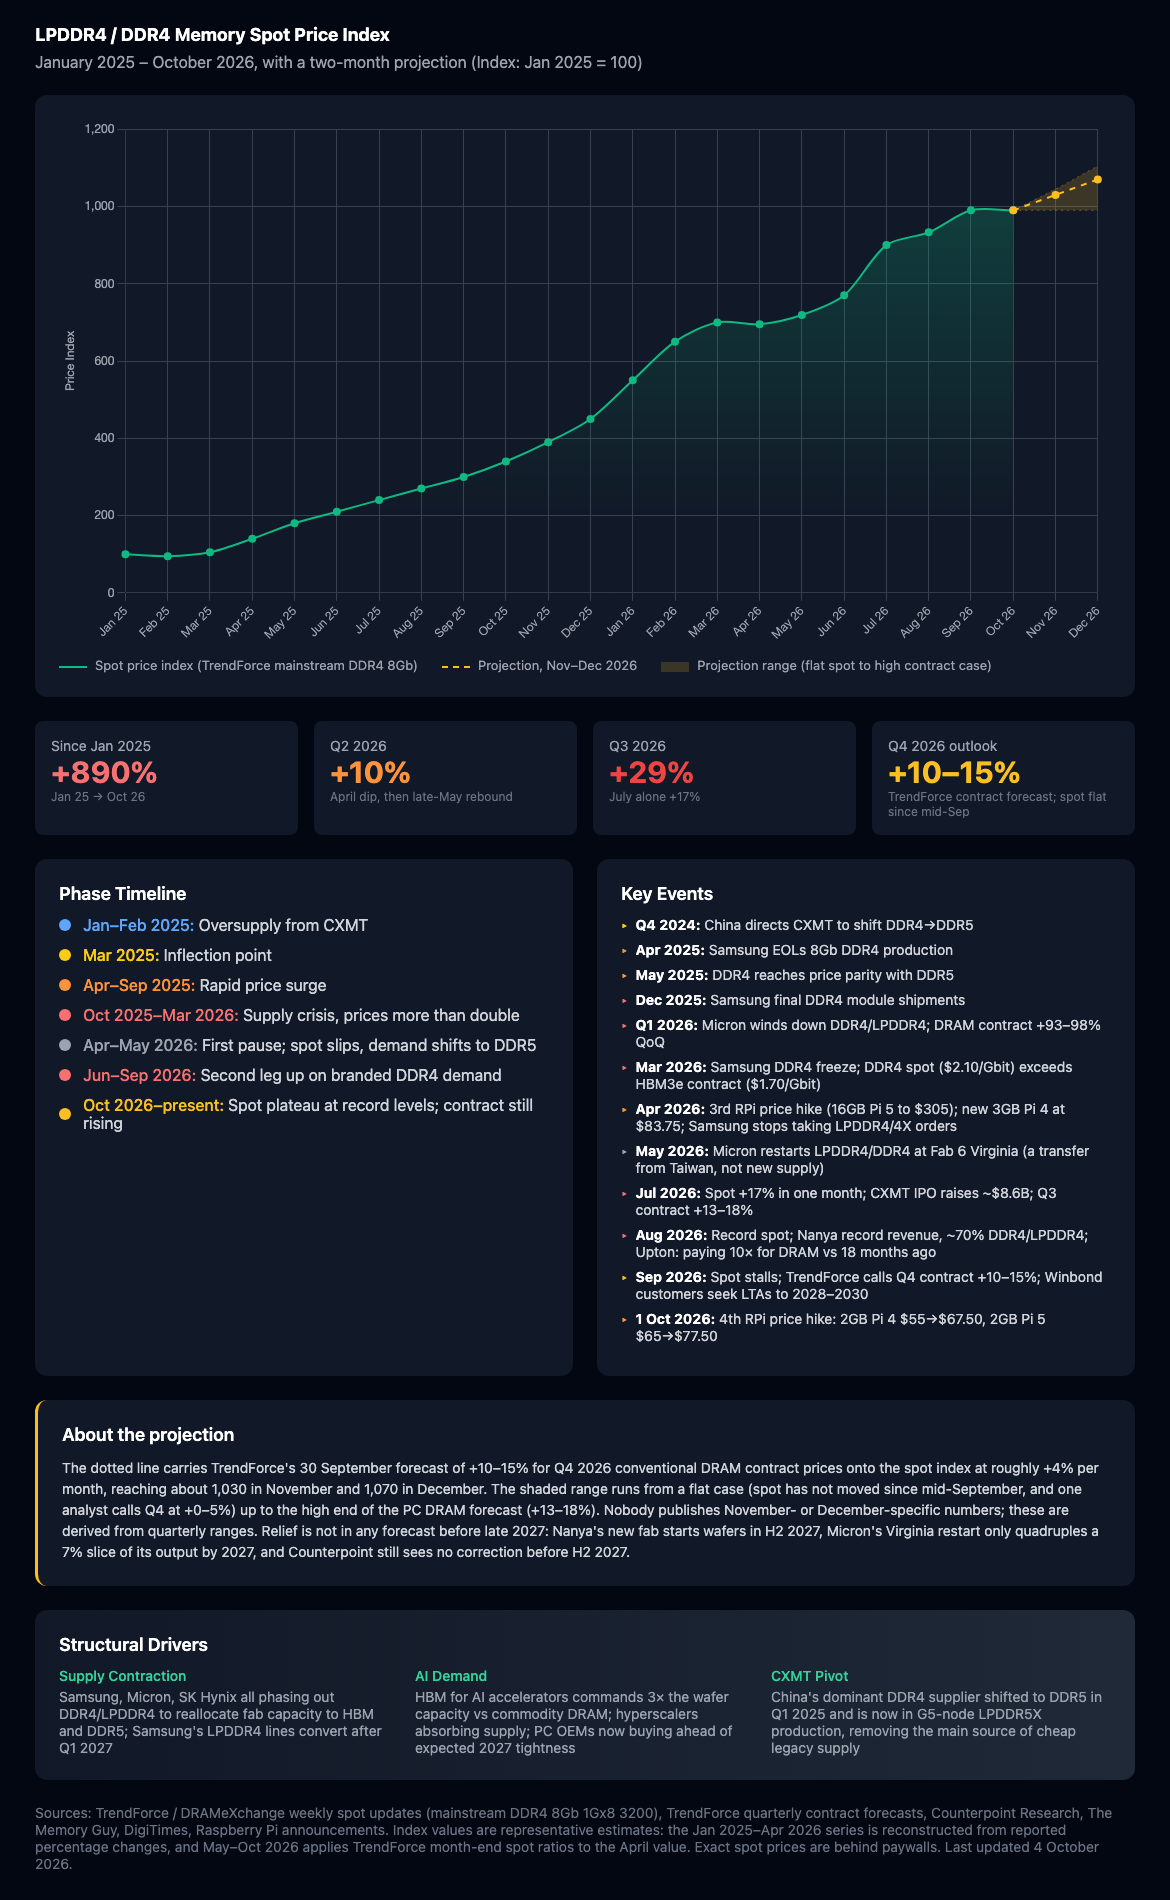
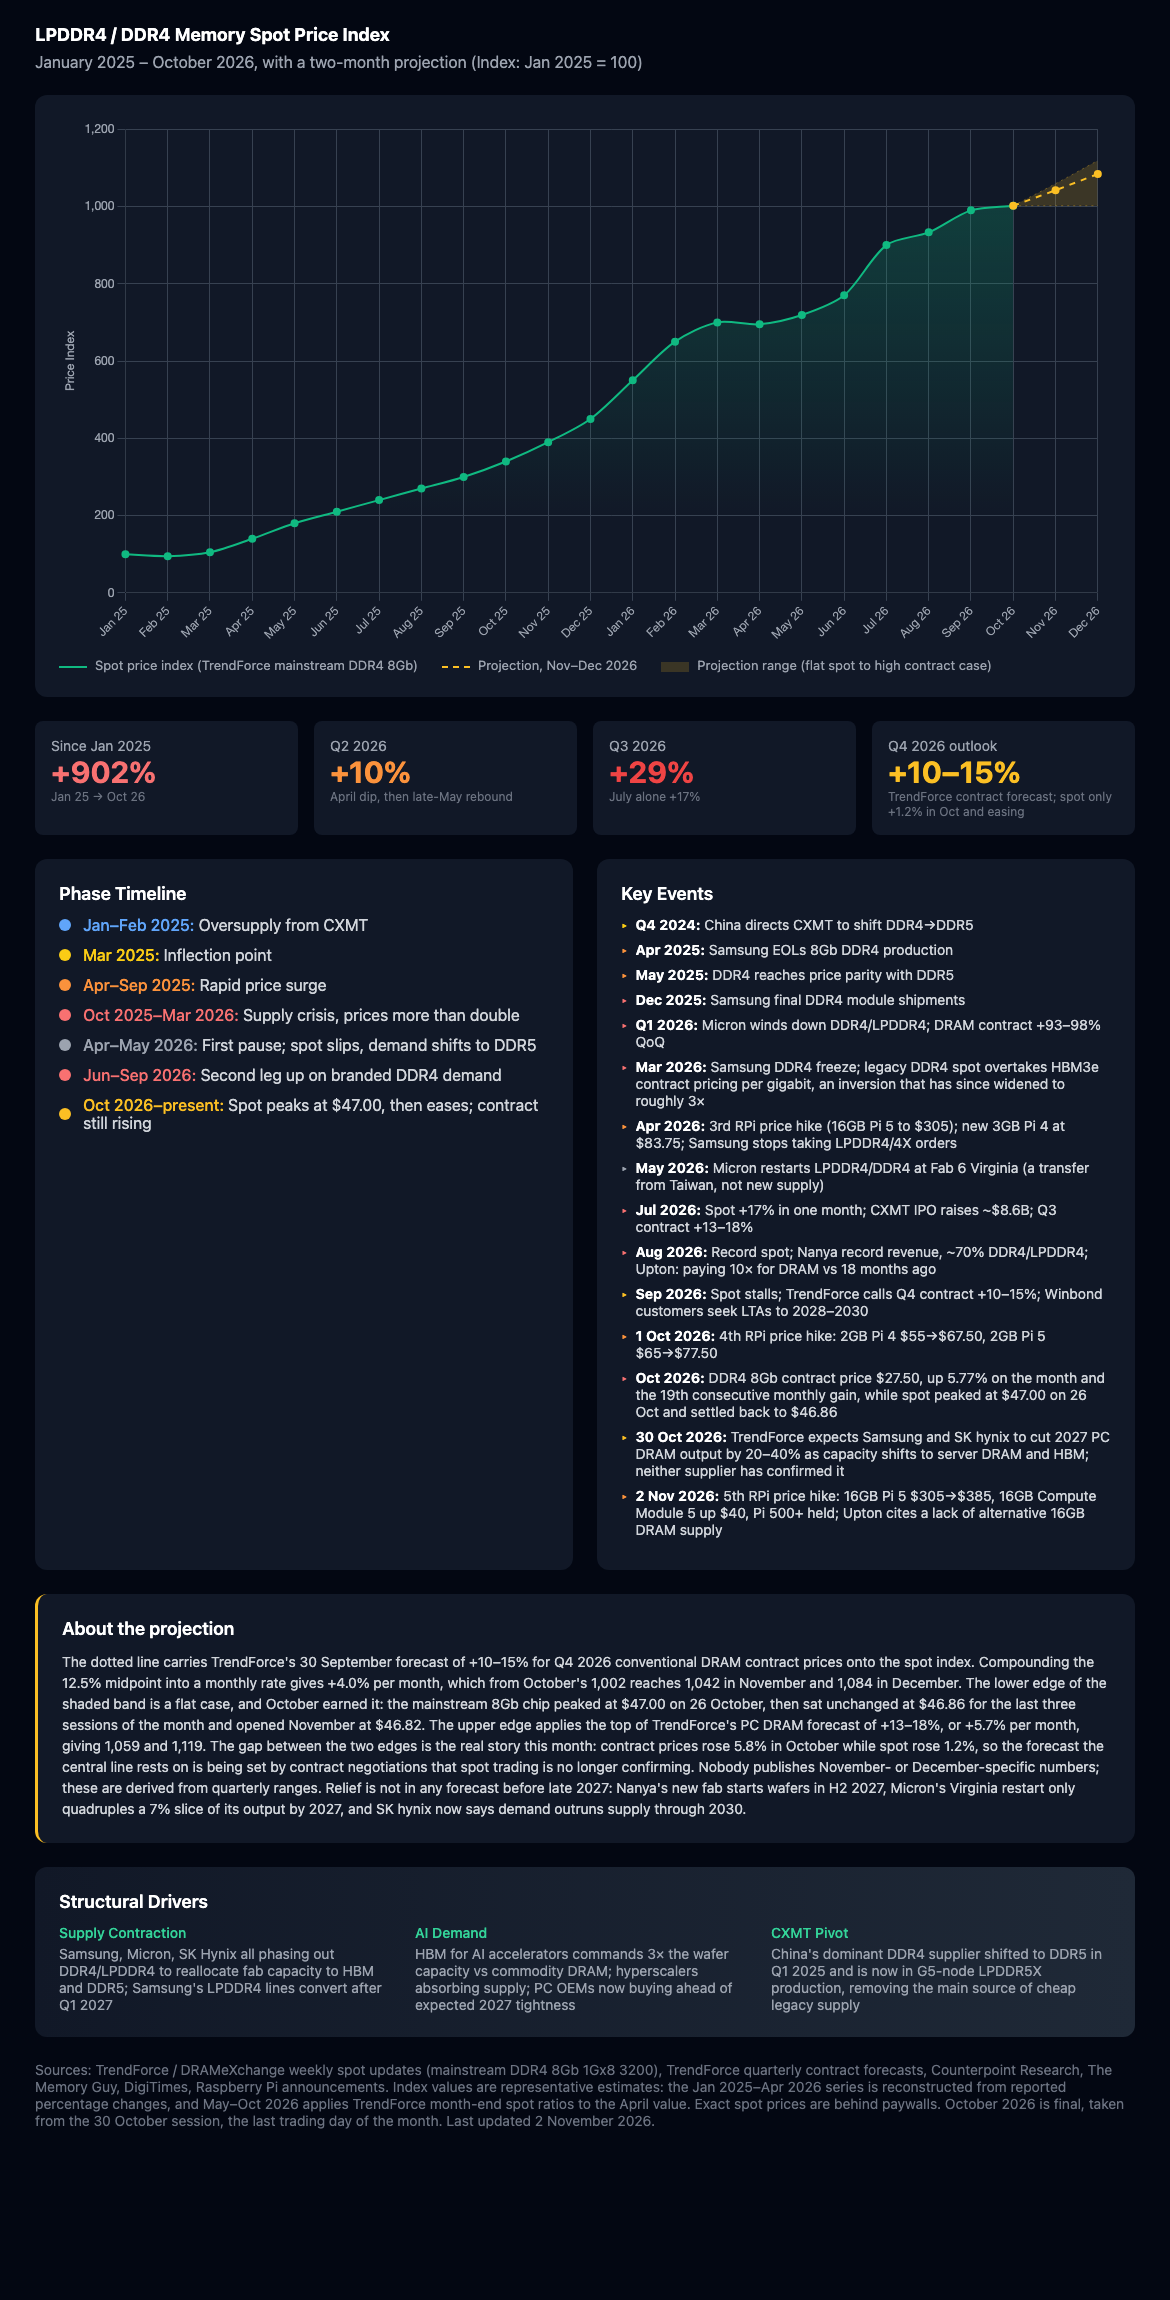
Update chart through October 2026
October finalizes at 1002, from the TrendForce mainstream DDR4 8Gb
month-end spot of $46.864 on 30 Oct against $46.32 in September (+1.2%).
Spot set a record $47.00 on 26 Oct, then gave it back, while the DDR4 8Gb
contract price rose 5.8% to $27.50 on its 19th straight monthly gain.
Projection compounds TrendForce's 30 Sep +10-15% Q4 conventional DRAM
forecast to +4.0%/month: 1042 Nov, 1084 Dec, band 1002 flat to 1119.
Raspberry Pi raised the 16GB Pi 5 from $305 to $385 on 2 Nov.

diff --git a/index.html b/index.html
@@ -84,7 +84,7 @@
     <div class="stats-grid">
       <div class="stat-card">
         <p class="stat-label">Since Jan 2025</p>
-        <p class="stat-value red">+890%</p>
+        <p class="stat-value red">+902%</p>
         <p class="stat-note">Jan 25 → Oct 26</p>
       </div>
       <div class="stat-card">
@@ -100,7 +100,7 @@
       <div class="stat-card">
         <p class="stat-label">Q4 2026 outlook</p>
         <p class="stat-value amber">+10–15%</p>
-        <p class="stat-note">TrendForce contract forecast; spot flat since mid-Sep</p>
+        <p class="stat-note">TrendForce contract forecast; spot only +1.2% in Oct and easing</p>
       </div>
     </div>
 
@@ -146,7 +146,7 @@
         <div class="phase-item">
           <div class="phase-dot amber-dot"></div>
           <div class="phase-text">
-            <span class="phase-label amber-text">Oct 2026–present:</span> Spot plateau at record levels; contract still rising
+            <span class="phase-label amber-text">Oct 2026–present:</span> Spot peaks at $47.00, then eases; contract still rising
           </div>
         </div>
       </div>
@@ -166,13 +166,16 @@
           <li class="event-item"><span class="red-text">▸</span> <span><strong>Aug 2026:</strong> Record spot; Nanya record revenue, ~70% DDR4/LPDDR4; Upton: paying 10× for DRAM vs 18 months ago</span></li>
           <li class="event-item"><span class="amber-text">▸</span> <span><strong>Sep 2026:</strong> Spot stalls; TrendForce calls Q4 contract +10–15%; Winbond customers seek LTAs to 2028–2030</span></li>
           <li class="event-item"><span class="orange-text">▸</span> <span><strong>1 Oct 2026:</strong> 4th RPi price hike: 2GB Pi 4 $55→$67.50, 2GB Pi 5 $65→$77.50</span></li>
+          <li class="event-item"><span class="red-text">▸</span> <span><strong>Oct 2026:</strong> DDR4 8Gb contract price $27.50, up 5.77% on the month and the 19th consecutive monthly gain, while spot peaked at $47.00 on 26 Oct and settled back to $46.86</span></li>
+          <li class="event-item"><span class="amber-text">▸</span> <span><strong>30 Oct 2026:</strong> TrendForce expects Samsung and SK hynix to cut 2027 PC DRAM output by 20–40% as capacity shifts to server DRAM and HBM; neither supplier has confirmed it</span></li>
+          <li class="event-item"><span class="orange-text">▸</span> <span><strong>2 Nov 2026:</strong> 5th RPi price hike: 16GB Pi 5 $305→$385, 16GB Compute Module 5 up $40, Pi 500+ held; Upton cites a lack of alternative 16GB DRAM supply</span></li>
         </ul>
       </div>
     </div>
 
     <div class="proj-card">
       <h2 class="info-title">About the projection</h2>
-      <p>The dotted line carries TrendForce's 30 September forecast of +10–15% for Q4 2026 conventional DRAM contract prices onto the spot index at roughly +4% per month, reaching about 1,030 in November and 1,070 in December. The shaded range runs from a flat case (spot has not moved since mid-September, and one analyst calls Q4 at +0–5%) up to the high end of the PC DRAM forecast (+13–18%). Nobody publishes November- or December-specific numbers; these are derived from quarterly ranges. Relief is not in any forecast before late 2027: Nanya's new fab starts wafers in H2 2027, Micron's Virginia restart only quadruples a 7% slice of its output by 2027, and Counterpoint still sees no correction before H2 2027.</p>
+      <p>The dotted line carries TrendForce's 30 September forecast of +10–15% for Q4 2026 conventional DRAM contract prices onto the spot index. Compounding the 12.5% midpoint into a monthly rate gives +4.0% per month, which from October's 1,002 reaches 1,042 in November and 1,084 in December. The lower edge of the shaded band is a flat case, and October earned it: the mainstream 8Gb chip peaked at $47.00 on 26 October, then sat unchanged at $46.86 for the last three sessions of the month and opened November at $46.82. The upper edge applies the top of TrendForce's PC DRAM forecast of +13–18%, or +5.7% per month, giving 1,059 and 1,119. The gap between the two edges is the real story this month: contract prices rose 5.8% in October while spot rose 1.2%, so the forecast the central line rests on is being set by contract negotiations that spot trading is no longer confirming. Nobody publishes November- or December-specific numbers; these are derived from quarterly ranges. Relief is not in any forecast before late 2027: Nanya's new fab starts wafers in H2 2027, Micron's Virginia restart only quadruples a 7% slice of its output by 2027, and SK hynix now says demand outruns supply through 2030.</p>
     </div>
 
     <div class="drivers-card">
@@ -195,19 +198,19 @@
 
     <p class="sources">
       Sources: TrendForce / DRAMeXchange weekly spot updates (mainstream DDR4 8Gb 1Gx8 3200), TrendForce quarterly contract forecasts, Counterpoint Research, The Memory Guy, DigiTimes, Raspberry Pi announcements. 
-      Index values are representative estimates: the Jan 2025–Apr 2026 series is reconstructed from reported percentage changes, and May–Oct 2026 applies TrendForce month-end spot ratios to the April value. Exact spot prices are behind paywalls. Last updated 4 October 2026.
+      Index values are representative estimates: the Jan 2025–Apr 2026 series is reconstructed from reported percentage changes, and May–Oct 2026 applies TrendForce month-end spot ratios to the April value. Exact spot prices are behind paywalls. October 2026 is final, taken from the 30 October session, the last trading day of the month. Last updated 2 November 2026.
     </p>
   </div>
 
   <script>
     const labels = ['Jan 25', 'Feb 25', 'Mar 25', 'Apr 25', 'May 25', 'Jun 25', 'Jul 25', 'Aug 25', 'Sep 25', 'Oct 25', 'Nov 25', 'Dec 25',
                     'Jan 26', 'Feb 26', 'Mar 26', 'Apr 26', 'May 26', 'Jun 26', 'Jul 26', 'Aug 26', 'Sep 26', 'Oct 26', 'Nov 26', 'Dec 26'];
-    const prices = [100, 95, 105, 140, 180, 210, 240, 270, 300, 340, 390, 450, 550, 650, 700, 695, 719, 770, 900, 933, 990, 990, null, null];
+    const prices = [100, 95, 105, 140, 180, 210, 240, 270, 300, 340, 390, 450, 550, 650, 700, 695, 719, 770, 900, 933, 990, 1002, null, null];
     // Projection: starts at the last actual point so the dotted line is continuous.
     const N = null;
-    const projCentral = [N,N,N,N,N,N,N,N,N,N,N,N,N,N,N,N,N,N,N,N,N, 990, 1030, 1070];
-    const projLow     = [N,N,N,N,N,N,N,N,N,N,N,N,N,N,N,N,N,N,N,N,N, 990,  990,  990];
-    const projHigh    = [N,N,N,N,N,N,N,N,N,N,N,N,N,N,N,N,N,N,N,N,N, 990, 1045, 1105];
+    const projCentral = [N,N,N,N,N,N,N,N,N,N,N,N,N,N,N,N,N,N,N,N,N, 1002, 1042, 1084];
+    const projLow     = [N,N,N,N,N,N,N,N,N,N,N,N,N,N,N,N,N,N,N,N,N, 1002, 1002, 1002];
+    const projHigh    = [N,N,N,N,N,N,N,N,N,N,N,N,N,N,N,N,N,N,N,N,N, 1002, 1059, 1119];
     const events = [
       'Stable/declining, CXMT flooding market',
       'Continued dip from Chinese oversupply',
@@ -230,9 +233,9 @@
       'Spot +16.9%, strongest month of 2026; branded DDR4 demand; CXMT IPO',
       'Spot +3.7%; record $42.50 per 8Gb chip on 10 Aug, then consolidation',
       'Spot +6.1%; 8Gb still rising while 16Gb DDR4 and DDR5 soften; Q4 contract called +10–15%',
-      'Spot flat through 2 Oct (partial month, provisional); 4th RPi hike: 2GB Pi 4 $67.50, 2GB Pi 5 $77.50',
-      'Projection: Q4 contract +10–15% spread at ~4%/month; range flat to +5.7%/month',
-      'Projection: central 1,070; range 990 (flat spot) to 1,105 (high contract case)'
+      'Spot +1.2% to $46.86 at month end: peaked at $47.00 on 26 Oct, then eased; contract +5.8% to $27.50; 4th RPi hike on 1 Oct',
+      'Projection: Q4 conventional DRAM contract +10–15% compounded at +4.0%/month; range flat to +5.7%/month',
+      'Projection: central 1,084; range 1,002 (flat spot) to 1,119 (high PC DRAM case)'
     ];
 
     const ctx = document.getElementById('priceChart').getContext('2d');

diff --git a/README.md b/README.md
@@ -6,15 +6,17 @@ An interactive chart tracking the rise in LPDDR4 and DDR4 memory prices from Jan
 
 ## The Story
 
-Memory prices are up roughly **+890%** since January 2025, driven by three things at once:
+Memory prices are up roughly **+902%** since January 2025, driven by three things at once:
 
 - **AI demand** — HBM for AI accelerators now commands 3× the wafer capacity vs commodity DRAM, and PC OEMs are buying ahead of expected 2027 tightness
 - **Supply contraction** — Samsung, Micron, and SK Hynix are phasing out DDR4/LPDDR4 to focus on HBM and DDR5; Samsung stopped accepting LPDDR4/4X orders in April 2026
 - **CXMT pivot** — China's dominant DDR4 supplier shifted to DDR5 production in Q1 2025 and is now on its G5 node making LPDDR5X
 
-The impact is visible in products like the Raspberry Pi 5, which has now seen four price rises in a year. The 16GB model went from $120 to $205 in February 2026 and to $305 in April. Raspberry Pi introduced a 3GB Pi 4 at $83.75 in April because two 1.5GB LPDDR4 chips were cheaper to source than one 4GB part, and on 1 October 2026 it raised the 2GB Pi 4 and Pi 5, which it had held at $55 and $65, to $67.50 and $77.50. Eben Upton told CNBC in August that the company is paying ten times more for DRAM than eighteen months earlier.
+The impact is visible in products like the Raspberry Pi 5, which has now seen five price rises in a year. The 16GB model went from $120 to $205 in February 2026, to $305 in April, and to $385 on 2 November. Raspberry Pi introduced a 3GB Pi 4 at $83.75 in April because two 1.5GB LPDDR4 chips were cheaper to source than one 4GB part, and on 1 October 2026 it raised the 2GB Pi 4 and Pi 5, which it had held at $55 and $65, to $67.50 and $77.50. Eben Upton told CNBC in August that the company is paying ten times more for DRAM than eighteen months earlier; announcing the November rise he blamed a lack of alternative supply for 16GB DRAM, and said he expects to roll the increases back when memory costs fall.
 
-After a pause in April and May 2026, spot prices climbed again from June through September — July alone was +17% — before stalling at record levels in mid-September. TrendForce's 30 September outlook still calls for Q4 2026 contract prices to rise another 10–15%, and nobody forecasts relief before late 2027: Nanya's new fab starts wafers in H2 2027, Micron's Virginia DDR4/LPDDR4 restart is a transfer from Taiwan rather than net new capacity, and Counterpoint sees no correction before the second half of 2027.
+After a pause in April and May 2026, spot prices climbed again from June through September — July alone was +17% — before stalling at record levels in mid-September. October broke that plateau only briefly. The mainstream 8Gb chip reached a record $47.00 on 26 October, then gave the gain back, closing the month at $46.86 and opening November at $46.82, for a monthly rise of just 1.2%. Contract prices went the other way: the general-purpose DDR4 8Gb chip settled at $27.50, up 5.8% on the month and the nineteenth consecutive monthly increase. Spot and contract have decoupled, because the buyers who can still get allocation are paying for it while spot traders sit out a market TrendForce's own daily commentary now calls sluggish.
+
+TrendForce's 30 September outlook still calls for Q4 2026 conventional DRAM contract prices to rise another 10–15%, and nobody forecasts relief before late 2027: Nanya's new fab starts wafers in H2 2027, Micron's Virginia DDR4/LPDDR4 restart is a transfer from Taiwan rather than net new capacity, and SK hynix now expects demand to outrun supply through 2030. TrendForce also expects Samsung and SK hynix to cut PC DRAM output by 20–40% in 2027 as capacity moves to server DRAM and HBM, though neither supplier has confirmed it.
 
 ## Key Dates
 
@@ -33,10 +35,13 @@ After a pause in April and May 2026, spot prices climbed again from June through
 | Aug 2026 | Record spot; Nanya record revenue; Upton: DRAM cost 10× in 18 months |
 | Sep 2026 | Spot plateaus; TrendForce calls Q4 contract +10–15% |
 | 1 Oct 2026 | 4th RPi price hike: 2GB Pi 4 $67.50, 2GB Pi 5 $77.50 |
+| Oct 2026 | DDR4 8Gb contract $27.50, +5.8% and a 19th straight monthly gain; spot peaks at $47.00 then settles at $46.86 |
+| 30 Oct 2026 | TrendForce expects Samsung and SK hynix to cut 2027 PC DRAM output 20–40%; unconfirmed by either |
+| 2 Nov 2026 | 5th RPi price hike: 16GB Pi 5 $305→$385, 16GB CM5 up $40, Pi 500+ held |
 
 ## The projection
 
-The dotted line spreads TrendForce's +10–15% Q4 contract forecast evenly across the quarter, about +4% per month, from the last spot reading. The shaded band runs from a flat case (spot has not moved since mid-September) to the upper end of the PC DRAM forecast. No source publishes month-specific numbers for November or December; the band is there to make that uncertainty visible rather than to hide it.
+The dotted line compounds the midpoint of TrendForce's +10–15% Q4 conventional DRAM contract forecast into a monthly rate of +4.0% and applies it from October's 1,002, giving 1,042 in November and 1,084 in December. The shaded band runs from a flat case, which October's own trading earns — a record on 26 October, then three unchanged sessions to close the month and a slightly lower open in November — up to the top of TrendForce's PC DRAM forecast of +13–18%, or +5.7% a month, reaching 1,119. The band is wider in meaning than usual this month: the central line follows contract prices that are still climbing at nearly 6% a month, while the spot series the index actually measures has gone flat. No source publishes month-specific numbers for November or December; the band is there to make that uncertainty visible rather than to hide it.
 
 ## View the Chart
 
@@ -52,7 +57,7 @@ The dotted line spreads TrendForce's +10–15% Q4 contract forecast evenly acros
 - [DigiTimes](https://www.digitimes.com/) — Nanya, Winbond and CXMT supply news
 - [Raspberry Pi Announcements](https://www.raspberrypi.com/news/) — Product pricing updates
 
-**Note:** Index values are representative estimates. The January 2025 to April 2026 series is reconstructed from reported percentage changes; May to October 2026 applies TrendForce month-end spot ratios to the April value. Exact spot prices are behind industry paywalls. Last updated 4 October 2026.
+**Note:** Index values are representative estimates. The January 2025 to April 2026 series is reconstructed from reported percentage changes; May to October 2026 applies TrendForce month-end spot ratios to the April value. Exact spot prices are behind industry paywalls. October 2026 is final, taken from the 30 October session, the last trading day of the month. Last updated 2 November 2026.
 
 ## Tech Stack
 
